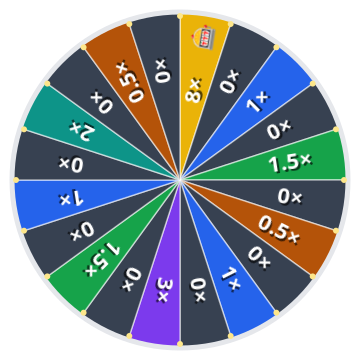
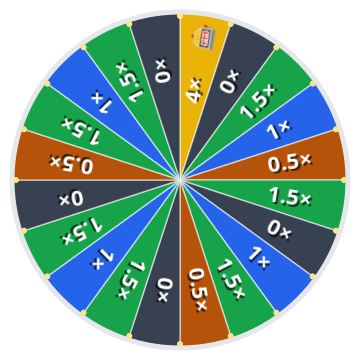
Rare misses and fairer wheels
Fishing, mining and hunting now miss 5% of the time (was 10-34%); the rest goes to common, so pay barely changes and hospital chances stay the same. A better gun's lower hospital chance now becomes common game instead of misses. The bet wheel wins as often as it loses (0x on 5 slices, 0.5x on 3, 1x on 4, 1.5x on 7, 4x on 1, still 1x on average), so Loaded Dice no longer applies to it. Free wheel: -$500 becomes $500 and a Mild curse a Mild lucky charm. Paid wheel: a -$5,000 becomes $5,000, a Strong curse a Strong lucky charm and jail a second legendary. Wheel art redrawn.

diff --git a/src/wheel.js b/src/wheel.js
@@ -33,9 +33,9 @@ export const WHEELS = {
       { kind: 'irs', rate: 0.10, max: 200_000, name: 'an IRS audit' },
       { kind: 'again', name: 'a free spin' },
     ] },
-    { emoji: '💀', label: 'MILD', color: C.misfortune, kind: 'charm', type: 'misfortune', severity: 'mild' },
+    { emoji: '🍀', label: 'MILD', color: C.lucky, kind: 'charm', type: 'lucky', severity: 'mild' },
     { emoji: '💎', label: 'EPIC', color: C.good, kind: 'items', tier: 'epic', count: 1 },
-    { emoji: '💸', label: '-$500', color: C.bad, kind: 'lose', cents: 50_000 },
+    { emoji: '💵', label: '$500', color: C.cash, kind: 'cash', cents: 50_000 },
     { emoji: '🍀', label: 'MILD', color: C.lucky, kind: 'charm', type: 'lucky', severity: 'mild' },
     { emoji: '🔄', label: 'AGAIN', color: C.good, kind: 'again' },
     { emoji: '🥷', label: 'THIEF', color: C.bad, kind: 'pickpocket' },
@@ -43,10 +43,11 @@ export const WHEELS = {
     { emoji: '💀', label: 'STRONG', color: C.misfortune, kind: 'charm', type: 'misfortune', severity: 'strong' },
     { emoji: '🪙', label: 'FLIP', color: C.swing, kind: 'flip', cents: 100_000 },
   ],
-  // Paid spins: high risk, high reward, and a little less back than they cost.
+  // Paid spins: high risk, high reward. The first one each day gives back
+  // about what it costs; the doubling price makes the rest lose.
   paid: [
     { emoji: '🎰', label: '$40,000', color: C.jackpot, kind: 'cash', cents: 4_000_000 },
-    { emoji: '💸', label: '-$5,000', color: C.paidBad, kind: 'lose', cents: 500_000 },
+    { emoji: '💰', label: '$5,000', color: C.paidCash, kind: 'cash', cents: 500_000 },
     { emoji: '🍀', label: 'STRONG', color: C.paidLucky, kind: 'charm', type: 'lucky', severity: 'strong' },
     { emoji: '💰', label: '$5,000', color: C.paidCash, kind: 'cash', cents: 500_000 },
     { emoji: '💀', label: 'STRONG', color: C.paidMisfortune, kind: 'charm', type: 'misfortune', severity: 'strong' },
@@ -62,8 +63,8 @@ export const WHEELS = {
     { emoji: '🍀', label: 'STRONG', color: C.paidLucky, kind: 'charm', type: 'lucky', severity: 'strong' },
     { emoji: '💸', label: '-$5,000', color: C.paidBad, kind: 'lose', cents: 500_000 },
     { emoji: '💰', label: '$5,000', color: C.paidCash, kind: 'cash', cents: 500_000 },
-    { emoji: '💀', label: 'STRONG', color: C.paidMisfortune, kind: 'charm', type: 'misfortune', severity: 'strong' },
-    { emoji: '🚔', label: 'JAIL', color: C.paidBad, kind: 'jail', ms: 30 * MIN },
+    { emoji: '🍀', label: 'STRONG', color: C.paidLucky, kind: 'charm', type: 'lucky', severity: 'strong' },
+    { emoji: '🏆', label: 'LEGENDARY', color: C.paidGood, kind: 'items', tier: 'legendary', count: 1 },
     { emoji: '🃏', label: 'WILD', color: C.paidSwing, kind: 'wild', options: [
       { kind: 'cash', cents: 1_000_000, name: '$10,000' },
       { kind: 'robbed', name: 'a robbery' },
@@ -71,13 +72,14 @@ export const WHEELS = {
     ] },
   ],
   // ?bet wheel: what the wager is multiplied by. Exactly fair: the 20
-  // multipliers add up to 20, so on average you get your bet back. Just the
-  // numbers, with an emoji only on the 8× jackpot (owner's call).
-  bet: [8, 0, 1, 0, 1.5, 0, 0.5, 0, 1, 0, 3, 0, 1.5, 0, 1, 0, 2, 0, 0.5, 0].map((x) => ({
-    emoji: x === 8 ? '🎰' : null,
+  // multipliers add up to 20, so on average you get your bet back. It wins
+  // as often as it loses (8 slices each, 4 ties), so it feels fair too
+  // (owner's call). Just the numbers, with an emoji only on the 4× jackpot.
+  bet: [4, 0, 1.5, 1, 0.5, 1.5, 0, 1, 1.5, 0.5, 0, 1.5, 1, 1.5, 0, 0.5, 1.5, 1, 1.5, 0].map((x) => ({
+    emoji: x === 4 ? '🎰' : null,
     label: `${x}×`,
     size: 22, // a bigger label: the number is all there is
-    color: { 0: '#374151', 0.5: '#b45309', 1: '#2563eb', 1.5: '#16a34a', 2: '#0d9488', 3: '#7c3aed', 8: '#eab308' }[x],
+    color: { 0: '#374151', 0.5: '#b45309', 1: '#2563eb', 1.5: '#16a34a', 4: '#eab308' }[x],
     kind: 'multiplier',
     times: x,
   })),

diff --git a/src/commands/hunt.js b/src/commands/hunt.js
@@ -10,11 +10,12 @@ import { placeOf } from '../storage.js';
 // High risk, high reward: a Hunting License, a gun and 1 round per hunt.
 // Small game (any gun, 1 energy) pays a bit more than fishing with little
 // risk; big game (a shotgun or better, 2 energy) pays about twice as much
-// per energy but lands you in the hospital far more often. The gun only
-// changes that hospital chance (the rest goes to missing), never the finds.
-// For someone worth ~$50k, small game is ~$225 an energy and big game ~$440
-// (fishing ~$210); big game stops paying at ~$150k worth with the shotgun,
-// ~$190k with the rifle and ~$230k with the Barrett.
+// per energy but lands you in the hospital far more often. Misses are rare
+// (5%, any gun). The gun only changes that hospital chance (what it saves
+// goes to common game), so a better gun is safer, not richer.
+// For someone worth ~$50k, small game is ~$227 an energy and big game ~$435
+// to ~$465 (fishing ~$212); big game stops paying at ~$150k worth with the
+// shotgun, ~$190k with the rifle and ~$230k with the Barrett.
 const MODES = {
   small: {
     energy: 1,
@@ -22,8 +23,8 @@ const MODES = {
     from: 'hunt_small',
     tiers: () => [
       { tier: 'hospital', weight: 3 },
-      { tier: 'nothing', weight: 20 },
-      { tier: 'common', weight: 45 },
+      { tier: 'nothing', weight: 5 },
+      { tier: 'common', weight: 60 },
       { tier: 'rare', weight: 25 },
       { tier: 'epic', weight: 7 },
     ],
@@ -45,8 +46,8 @@ const MODES = {
     from: 'hunt_big',
     tiers: (gun) => [
       { tier: 'hospital', weight: gun.hospital },
-      { tier: 'nothing', weight: 41 - gun.hospital },
-      { tier: 'common', weight: 25 },
+      { tier: 'nothing', weight: 5 },
+      { tier: 'common', weight: 61 - gun.hospital },
       { tier: 'rare', weight: 20 },
       { tier: 'epic', weight: 8 },
       { tier: 'legendary', weight: 6 },

diff --git a/src/charms.js b/src/charms.js
@@ -35,7 +35,7 @@ export const CHARMS = [
   { id: 'lodestone', type: 'lucky', severity: 'strong', emoji: '🧲', name: 'Lodestone', on: 'gather',
     text: 'Your next fish, mine or hunt catches two items of different rarities (it waits until your Backpack has room for both).' },
   { id: 'loaded_dice', type: 'lucky', severity: 'strong', emoji: '🎲', name: 'Loaded Dice', on: 'bet', longShot: true,
-    text: 'If you win your next bet of $1,000 or more on a game with 1-in-3 odds or worse (rps, dice, wheel), the payout is doubled (up to $10,000 extra).' },
+    text: 'If you win your next bet of $1,000 or more on a game with 1-in-3 odds or worse (rps, dice), the payout is doubled (up to $10,000 extra).' },
   { id: 'four_leaf_clover', type: 'lucky', severity: 'strong', emoji: '🍀', name: 'Four-Leaf Clover', on: 'gather', charges: 2,
     text: 'Your next two fish, mine or hunt are guaranteed epic.' },
   { id: 'guardian_angel', type: 'lucky', severity: 'strong', emoji: '👼', name: 'Guardian Angel', on: 'bet',

diff --git a/src/commands/wheel.js b/src/commands/wheel.js
@@ -86,7 +86,7 @@ function menu({ prefix, isAdmin, user, server, db, cooldowns, commands }) {
     '',
     "**Free wheel:** Two free spins every day, on the house. You could win cash, a rare item, a burst of energy or a lucky charm... or get bitten by a snake. Your spins come back 24 hours after you use the first one.",
     '**Paid wheel:** Out of free spins and feeling lucky? This wheel is riskier, but the prizes are way bigger, like a $40,000 jackpot or a legendary item. Your first spin costs $5,000, and each one after that costs double, until your free spins come back.',
-    '**Bet wheel:** Put some money on the line and let the wheel decide. You could lose it all or win up to 8 times your bet.',
+    '**Bet wheel:** Put some money on the line and let the wheel decide. You could lose it all or win up to 4 times your bet.',
   ].join('\n');
 }
 

diff --git a/src/commands/fish.js b/src/commands/fish.js
@@ -9,13 +9,14 @@ export default gatherCommand({
   verb: 'caught',
   activity: 'Fishing',
   // Little work, small catches: a quarter of mining's energy and about a
-  // quarter of its payout (~$210 a cast), so both pay the same per energy.
+  // quarter of its payout (~$212 a cast), so both pay the same per energy.
   energy: 1,
-  // How often each kind of catch comes up (weights, not percentages).
+  // How often each kind of catch comes up (weights, not percentages). Misses
+  // are rare (owner's call: catching something common feels better).
   tiers: [
-    { tier: 'nothing', weight: 18 },
+    { tier: 'nothing', weight: 5 },
     { tier: 'trash', weight: 18 },
-    { tier: 'common', weight: 50 },
+    { tier: 'common', weight: 63 },
     { tier: 'rare', weight: 10 },
     { tier: 'epic', weight: 3 },
     { tier: 'legendary', weight: 1 },

diff --git a/src/tools.js b/src/tools.js
@@ -35,7 +35,8 @@ export const TOOLS = [
 
   // Guns fire one round of their `ammo` per hunt. `big` guns can hunt big
   // game, where `hospital` is the % chance of ending up there (bigger guns
-  // keep you further from the animal). Finds are the same with every gun.
+  // keep you further from the animal). What a better gun saves on the
+  // hospital becomes common game; the other finds are the same with every gun.
   { id: 'marlin_60', kind: 'gun', name: 'Marlin Model 60', price: 250_000, ammo: 'ammo_22lr', big: false },
   { id: 'mossberg_500', kind: 'gun', name: 'Mossberg 500', price: 1_000_000, ammo: 'ammo_12ga', big: true, hospital: 15 },
   { id: 'remington_700', kind: 'gun', name: 'Remington 700', price: 2_500_000, ammo: 'ammo_308', big: true, hospital: 10 },

diff --git a/src/energy.js b/src/energy.js
@@ -5,8 +5,8 @@
 export const DEFAULTS = { max: 60, every: 60_000 };
 
 // Recovery items, sold in ?shop and used up on the spot, one per
-// BOOST_COOLDOWN. A point of energy catches ~$210 on average (fish and mine
-// alike), so each costs about $300 more than the catches it buys (at the
+// BOOST_COOLDOWN. A point of energy catches ~$212 on average (fish and mine
+// alike), so each costs about $190-260 more than the catches it buys (at the
 // default bar of 60): they never pay, with room for a lucky legendary.
 // Check these again if catch odds or item prices change. Ids are stored
 // (as the time of the last one), so never rename one.

diff --git a/src/commands/bet.js b/src/commands/bet.js
@@ -61,7 +61,7 @@ const GAMES = {
   // where it lands. Fair: the multipliers average exactly 1×.
   wheel: {
     chance: WHEELS.bet.filter((s) => s.times > 1).length / WHEELS.bet.length,
-    odds: '1 in 4 to win · pays up to 8× (half the slices are 0×)',
+    odds: '2 in 5 to win, 1 in 5 tie (wager back) · pays up to 4×',
     spins: true,
     cooldown: { win: 15_000, lose: 15_000, tie: 15_000 },
   },

diff --git a/src/commands/mine.js b/src/commands/mine.js
@@ -13,9 +13,9 @@ export default gatherCommand({
   // (epic+) is about 1 swing in 6.
   energy: 4,
   tiers: [
-    { tier: 'nothing', weight: 10 },
+    { tier: 'nothing', weight: 5 },
     { tier: 'trash', weight: 20 },
-    { tier: 'common', weight: 34 },
+    { tier: 'common', weight: 39 },
     { tier: 'rare', weight: 20 },
     { tier: 'epic', weight: 12 },
     { tier: 'legendary', weight: 4 },
